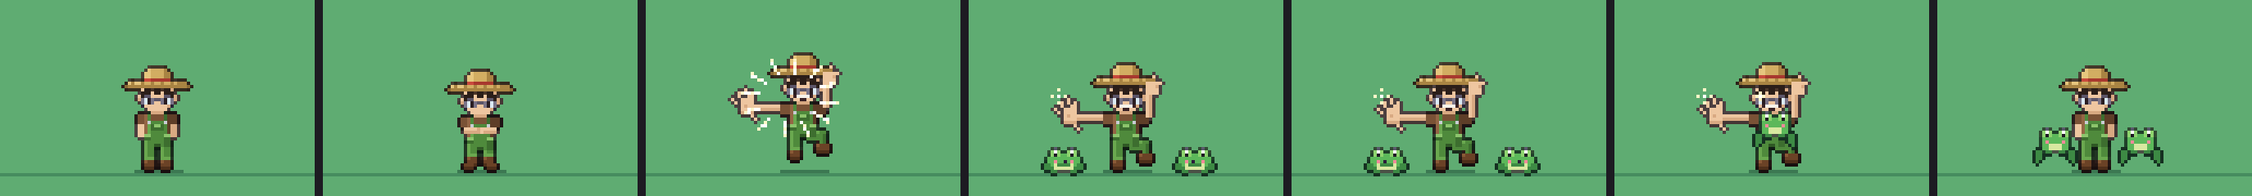
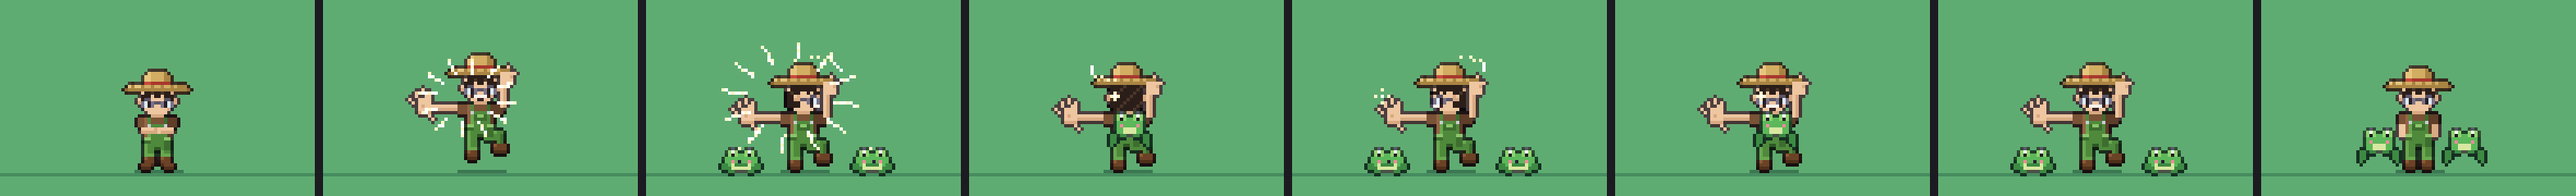
Adjo emote: head twirl after the pose pop (picture only) [skip ci]
Claude-Session: https://claude.ai/code/session_01DcRsQ77FYXtVXyNejf31QG

Changed region(s): [[0.1237, 0.0, 0.9898, 1.0], [0.0309, 0.3208, 0.0928, 0.9042]]

diff --git a/tools/adjo_emote.py b/tools/adjo_emote.py
@@ -12,7 +12,7 @@ TD, TW = C('#3a2226'), C('#f6f2ea')
 SPARK, SPARK2 = C('#fff6c8'), C('#ffffff')
 
 
-def adjo(pose='idle', f=0, blink=False):
+def adjo(pose='idle', f=0, blink=False, head='front'):
     """front view. pose: idle | windup | pose. local coords match farmer.py (feet row 28)."""
     b = B(48, 44, 16, 10); X, R = b.X, b.R
     Y = 1 if pose == 'windup' else 0          # crouch a little before the pop
@@ -58,20 +58,37 @@ def adjo(pose='idle', f=0, blink=False):
     R(6, 11 + Y, 4, 1, P['skinS'])
     for i, (a, z) in enumerate([(5, 10), (4, 11), (3, 12), (3, 12), (3, 12), (3, 12), (3, 12), (4, 11), (5, 10)]):
         for x in range(a, z + 1): X(x, 2 + i + Y, P['skinS'] if x > 10 else P['skin'])
-    H = lambda x, y, c=P['hair']: X(x, y + Y, c)
-    for x in range(4, 12): H(x, 3); H(x, 4)
-    for x in (4, 5, 7, 8, 10, 11): H(x, 5)
-    H(6, 4, P['hairL']); H(9, 4, P['hairL'])
-    for y in (5, 6): H(3, y); H(12, y)
-    X(2, 6 + Y, P['skin']); X(2, 7 + Y, P['skinS']); X(13, 6 + Y, P['skinS']); X(13, 7 + Y, P['skinS'])
-    for x0 in (3, 9):
-        R(x0 + 1, 6 + Y, 2, 1, P['frameD']); X(x0, 7 + Y, P['frame']); X(x0 + 3, 7 + Y, P['frame']); X(x0, 8 + Y, P['frame']); X(x0 + 3, 8 + Y, P['frame'])
-        X(x0 + 1, 7 + Y, P['lens']); X(x0 + 2, 7 + Y, P['lens']); X(x0 + 1, 8 + Y, P['lens']); X(x0 + 2, 8 + Y, P['lens'])
-    X(7, 7 + Y, P['frameD']); X(8, 7 + Y, P['frameD'])
-    if blink: X(5, 8 + Y, P['skinS']); X(10, 8 + Y, P['skinS'])
-    else: X(5, 7 + Y, P['eye']); X(5, 8 + Y, P['eye']); X(10, 7 + Y, P['eye']); X(10, 8 + Y, P['eye'])
-    if pose == 'pose':          # big confident grin (same teeth style as the sprint)
-        X(5, 9, TD); R(6, 9, 4, 1, TW); X(10, 9, TD); X(7, 10, TD); X(8, 10, TD)
+    mir = head == 'left'
+    HX = (lambda x, y, c: X(15 - x, y, c)) if mir else X
+    H = lambda x, y, c=P['hair']: HX(x, y + Y, c)
+    if head == 'front':
+        for x in range(4, 12): H(x, 3); H(x, 4)
+        for x in (4, 5, 7, 8, 10, 11): H(x, 5)
+        H(6, 4, P['hairL']); H(9, 4, P['hairL'])
+        for y in (5, 6): H(3, y); H(12, y)
+        X(2, 6 + Y, P['skin']); X(2, 7 + Y, P['skinS']); X(13, 6 + Y, P['skinS']); X(13, 7 + Y, P['skinS'])
+        for x0 in (3, 9):
+            R(x0 + 1, 6 + Y, 2, 1, P['frameD']); X(x0, 7 + Y, P['frame']); X(x0 + 3, 7 + Y, P['frame']); X(x0, 8 + Y, P['frame']); X(x0 + 3, 8 + Y, P['frame'])
+            X(x0 + 1, 7 + Y, P['lens']); X(x0 + 2, 7 + Y, P['lens']); X(x0 + 1, 8 + Y, P['lens']); X(x0 + 2, 8 + Y, P['lens'])
+        X(7, 7 + Y, P['frameD']); X(8, 7 + Y, P['frameD'])
+        if blink: X(5, 8 + Y, P['skinS']); X(10, 8 + Y, P['skinS'])
+        else: X(5, 7 + Y, P['eye']); X(5, 8 + Y, P['eye']); X(10, 7 + Y, P['eye']); X(10, 8 + Y, P['eye'])
+        if pose == 'pose':          # big confident grin (same teeth style as the sprint)
+            X(5, 9, TD); R(6, 9, 4, 1, TW); X(10, 9, TD); X(7, 10, TD); X(8, 10, TD)
+    elif head == 'back':
+        for y in range(3, 11):
+            for x in range(3 if y < 10 else 4, 13 if y < 10 else 12): H(x, y, P['hairL'] if (x + y) % 5 == 0 else P['hair'])
+        X(2, 6 + Y, P['skinS']); X(2, 7 + Y, P['skinS']); X(13, 6 + Y, P['skinS']); X(13, 7 + Y, P['skinS'])
+    else:   # side profile (right, or mirrored for left)
+        for x in range(4, 12): H(x, 3); H(x, 4)
+        for y in range(5, 10):
+            for x in range(3, 7): H(x, y)
+        H(9, 5); H(11, 5); H(12, 5); H(4, 5, P['hairL'])
+        HX(6, 6 + Y, P['skinS']); HX(6, 7 + Y, P['skinS']); HX(5, 6 + Y, P['skin']); HX(5, 7 + Y, P['skinS'])
+        for (x, y, c) in ((10, 6, 'frameD'), (11, 6, 'frameD'), (9, 7, 'frame'), (12, 7, 'frame'), (9, 8, 'frame'), (12, 8, 'frame'),
+                          (11, 7, 'lens'), (11, 8, 'lens'), (7, 7, 'frameD'), (8, 7, 'frameD'), (10, 7, 'eye'), (10, 8, 'eye')):
+            HX(x, y + Y, P[c])
+        if pose == 'pose': HX(10, 9 + Y, TD); HX(11, 9 + Y, TW); HX(12, 9 + Y, TW); HX(11, 10 + Y, TD)
     # ---- straw hat (tilted back a touch in the pose)
     hy = Y - (1 if pose == 'pose' else 0)
     for y, a, z in ((-2, 5, 10), (-1, 4, 11), (0, 4, 11)):
@@ -112,6 +129,7 @@ def frog(f):
 W, H, GROUND = 96, 60, 52
 BG = (95, 172, 114, 255)
 IDLE, BLINK, WIND, POSE, POSEB = adjo('idle'), adjo('idle', blink=True), adjo('windup'), adjo('pose'), adjo('pose', blink=True)
+TWIRL = [adjo('pose', head=h) for h in ('right', 'back', 'left')]
 FROG = [frog(0), frog(1)]
 FROGL = [i.transpose(Image.FLIP_LEFT_RIGHT) for i in FROG]
 AX = W // 2 - 24      # Adjo sprite x (48 wide; local x0 = canvas 16)
@@ -146,13 +164,19 @@ def scene(t):
     if t < 4: spr, dy = IDLE, 0
     elif t < 8: spr, dy = WIND, 0
     elif t < 38:
-        spr = POSEB if t in (24, 25) else POSE
+        spr = POSEB if t in (30, 31) else POSE
+        if 10 <= t < 22: spr = TWIRL[(t - 10) // 2 % 4] if (t - 10) // 2 % 4 < 3 else POSE   # head twirl: right, back, left, front x2
         dy = -3 if t == 8 else -1 if t == 9 else 0
         dy += 0 if (t // 6) % 2 else 0
     elif t < 42: spr, dy = (WIND if t < 40 else IDLE), 0
     else: spr, dy = (BLINK if t == 44 else IDLE), 0
     put(im, spr, AX, AY + dy)
     if 8 <= t <= 11: burst(im, (t - 8) / 3, W // 2 - 4, GROUND - 22)
+    if 10 <= t < 22:            # swoosh arc circling the head
+        px = im.load(); a0 = (t - 10) * 1.6
+        for k in range(7):
+            a = a0 - k * .22; x = int(W // 2 + math.cos(a) * 11); y = int(GROUND - 31 + math.sin(a) * 4)
+            if 0 <= x < W and 0 <= y < H: px[x, y] = SPARK2 if k < 3 else SPARK
     if 10 <= t < 38:             # twinkle on the glasses + the open palm
         if t % 6 < 2: sparkle(im, W // 2 - 4, GROUND - 23, 1)
         if (t + 3) % 8 < 2: sparkle(im, W // 2 - 21, GROUND - 23, 2)
@@ -188,7 +212,7 @@ big[0].save(O + 'adjo_emote.png', save_all=True, append_images=big[1:], duration
 pf = [f.convert('RGB').convert('P', palette=Image.ADAPTIVE) for f in big]
 pf[0].save(O + 'adjo_emote.gif', save_all=True, append_images=pf[1:], duration=85, loop=0)
 # key frames strip: idle, windup, pop, hold, frogs mid-hop, settle
-keys = [2, 6, 8, 14, 22, 30, 41]
+keys = [6, 8, 10, 12, 14, 24, 32, 41]
 strip = Image.new('RGBA', (W * len(keys) * 4 + 10 * (len(keys) - 1), H * 4), (29, 27, 34, 255))
 for i, t in enumerate(keys): strip.alpha_composite(frames[t].resize((W * 4, H * 4), Image.NEAREST), (i * (W * 4 + 10), 0))
 strip.save(O + 'adjo_emote_frames.png')

diff --git a/docs/BUGS.md b/docs/BUGS.md
@@ -14,4 +14,5 @@
 - **Adjo's own emote** (picture only: `assets/characters/farmer/adjo_emote.*`, `tools/adjo_emote.py`):
   - A dramatic kabuki-style pose inspired by the user's anime reference: arms crossed wind-up, then a pop with impact lines into the pose.
   - The pose: one arm thrust out with an open palm, the other hand raised by the hat, one knee up, and a cheeky grin.
+  - Right after the pop, his head twirls (right → back → left → front, twice) with a swoosh arc around it.
   - Two little frogs pop in and hop side to side, crossing in front of him, then hop away. They replace the jellyfish for Adjo.
